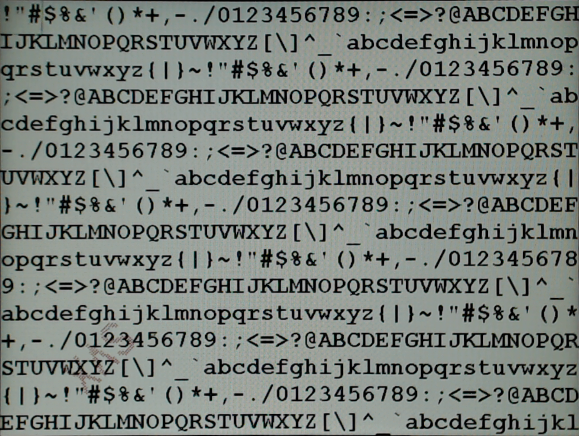
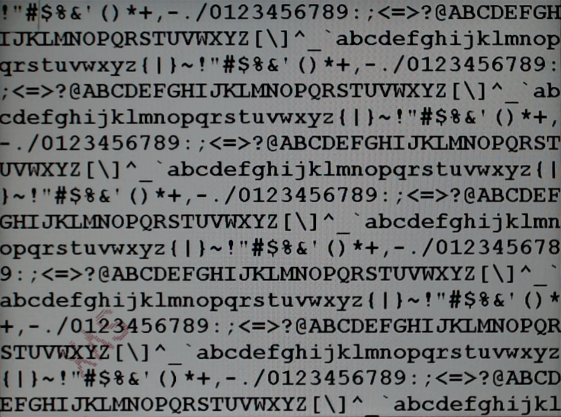
changes in display

Changed region(s): [[0.0, 0.0, 1.0, 1.0]]

diff --git a/src/main/python/com/hmi_test_system/opencv/displaycv.py b/src/main/python/com/hmi_test_system/opencv/displaycv.py
@@ -29,7 +29,7 @@ class Displaycv():
         objp[:,:2] = np.mgrid[0:pattern_size[0], 0:pattern_size[1]].T.reshape(-1, 2)
 
         # Define the path to the calibration images folder
-        calibration_folder = "..\..\..\..\model_images\intrinsic_calibration"
+        calibration_folder = "..\..\..\..\..\model_images\intrinsic_calibration"
 
         # Get the list of image filenames in the calibration folder
         image_files = os.listdir(calibration_folder)
@@ -59,6 +59,8 @@ class Displaycv():
 
         return camera_matrix, dist_coeffs
 
+    camera_matrix, dist_coeffs = intrinsic_calibration()
+
     ## TRANSFORMATION MATRIX - only needs to be done at the start of each video, assuming the camera is static the entire time
     #                        - transform_matrix and rectangle_coords must be saved until the end of the test
     @staticmethod
@@ -66,6 +68,9 @@ class Displaycv():
 
         if Displaycv.display_transformation_matrix is not None:
             return Displaycv.display_transformation_matrix, Displaycv.display_coordinates
+
+
+        image = cv2.undistort(image, Displaycv.camera_matrix, Displaycv.dist_coeffs)
 
         # Convert image to grayscale
         image_gray = cv2.cvtColor(image, cv2.COLOR_BGR2GRAY)
@@ -89,10 +94,11 @@ class Displaycv():
             return None, None
 
         # Define the coordinates of the display's vertices 
-        top_left = approx[0][0]
-        bottom_left = approx[1][0]
-        bottom_right = approx[2][0]
-        top_right = approx[3][0]
+        top_left = approx[1][0]
+        bottom_left = approx[2][0]
+        bottom_right = approx[3][0]
+        top_right = approx[0][0]
+
         display_coords = np.float32([top_left, top_right, bottom_right, bottom_left])
 
         # Define the coordinates of the rectangle's vertices
@@ -107,21 +113,16 @@ class Displaycv():
         Displaycv.display_coordinates = rectangle_coords
         return transform_matrix, rectangle_coords
 
+    @staticmethod
+    def undistort_image(image):
+        return cv2.undistort(image, Displaycv.camera_matrix, Displaycv.dist_coeffs)
+
     ## DISPLAY EXTRACTION - the display must be extracted from all images used by cv
     @staticmethod
     def extract_display(image):
 
-        #image = cv2.undistort(image, Displaycv.camera_matrix, Displaycv.dist_coeffs)
+        image = cv2.undistort(image, Displaycv.camera_matrix, Displaycv.dist_coeffs)
 
-        # If it's the first image, get transformation matrix and coordinates
-        if Displaycv.display_transformation_matrix is None:
-            transformation_matrix, display_coordinates = Displaycv.get_transformation_matrix(image)
-            if transformation_matrix is None:
-                return None
-            else:
-                Displaycv.display_transformation_matrix = transformation_matrix
-                Displaycv.display_coordinates = display_coordinates
-        
         # Apply the perspective transform matrix to the image
         corrected_image = cv2.warpPerspective(image, Displaycv.display_transformation_matrix, (image.shape[1], image.shape[0]))
 
@@ -154,7 +155,7 @@ class Displaycv():
     
     @staticmethod
     def compare_display(image, model, threshold_avg_ssim, threshold_min_ssim, threshold_mse):
-        
+
         # Perform image registration using SIFT
         sift = cv2.SIFT_create()
         keypoints_image, descriptors_image = sift.detectAndCompute(image, None)
@@ -215,6 +216,17 @@ class Displaycv():
         mse_a = np.mean((image_lab[:, :, 1] - model_lab[:, :, 1]) ** 2)
         mse_b = np.mean((image_lab[:, :, 2] - model_lab[:, :, 2]) ** 2)
         mse = (mse_a + mse_b) / 2
+
+        print(avg_ssim, threshold_avg_ssim)
+        print(min_ssim, threshold_min_ssim)
+        print(mse, threshold_mse)
+        print()
+        
+        cv2.imshow('IMG', image)
+        cv2.imshow('MODEL', model)
+
+        cv2.waitKey(0)
+        cv2.destroyAllWindows()
 
         return avg_ssim > threshold_avg_ssim and min_ssim > threshold_min_ssim and mse < threshold_mse
     

diff --git a/src/main/python/com/hmi_test_system/opencv/define_model_cv.py b/src/main/python/com/hmi_test_system/opencv/define_model_cv.py
@@ -369,6 +369,8 @@ class DefineModelCV():
                 frame, frame_time = cam.get_image()
                 if frame is None: continue
 
+                Displaycv.get_transformation_matrix(frame)
+
                 # Check if the frame is related to the current test
                 if frame_time < test_start_time:
                     continue

diff --git a/src/main/python/com/hmi_test_system/test/test.py b/src/main/python/com/hmi_test_system/test/test.py
@@ -182,6 +182,7 @@ class Test:
             if test_name is not None:
                 frame, frame_time = cam.get_image()
                 if frame is not None:
+                    
                     Displaycv.get_transformation_matrix(frame)
 
                     old_frame_time = frame_time
